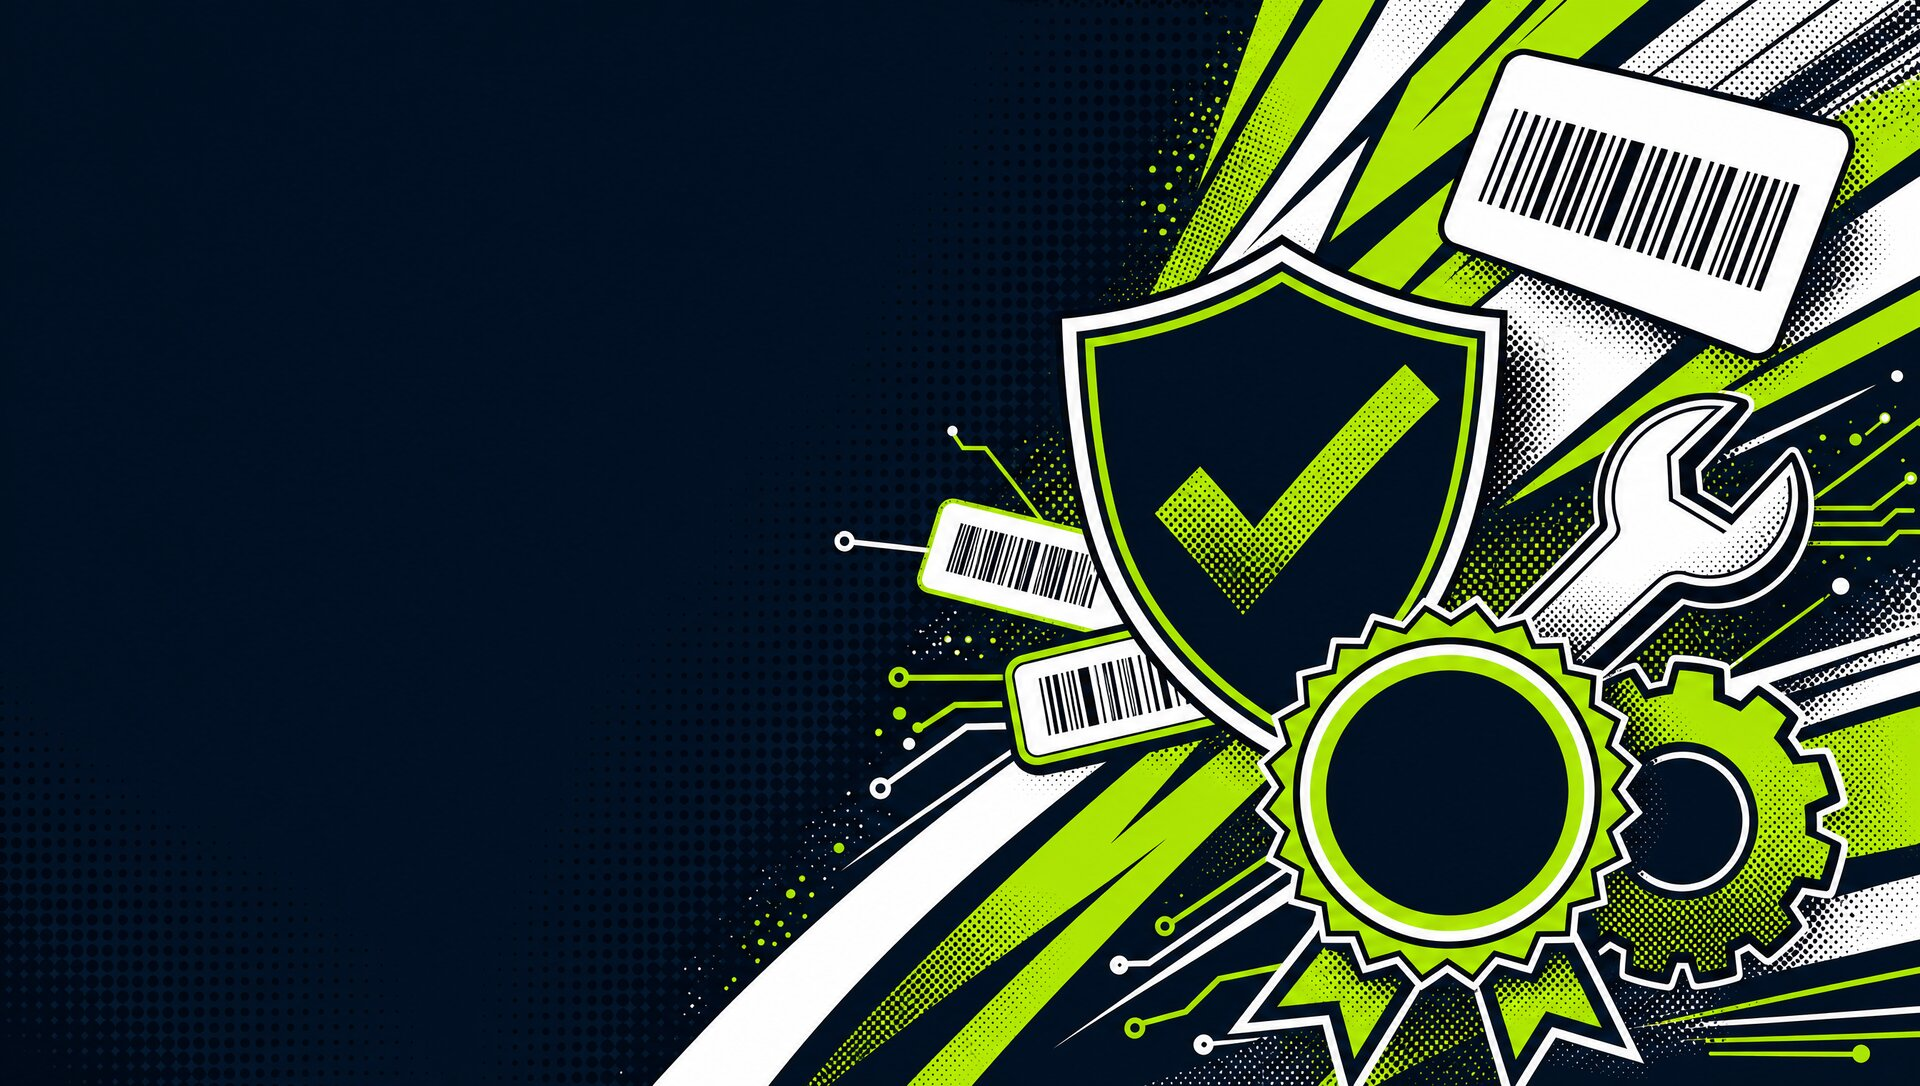
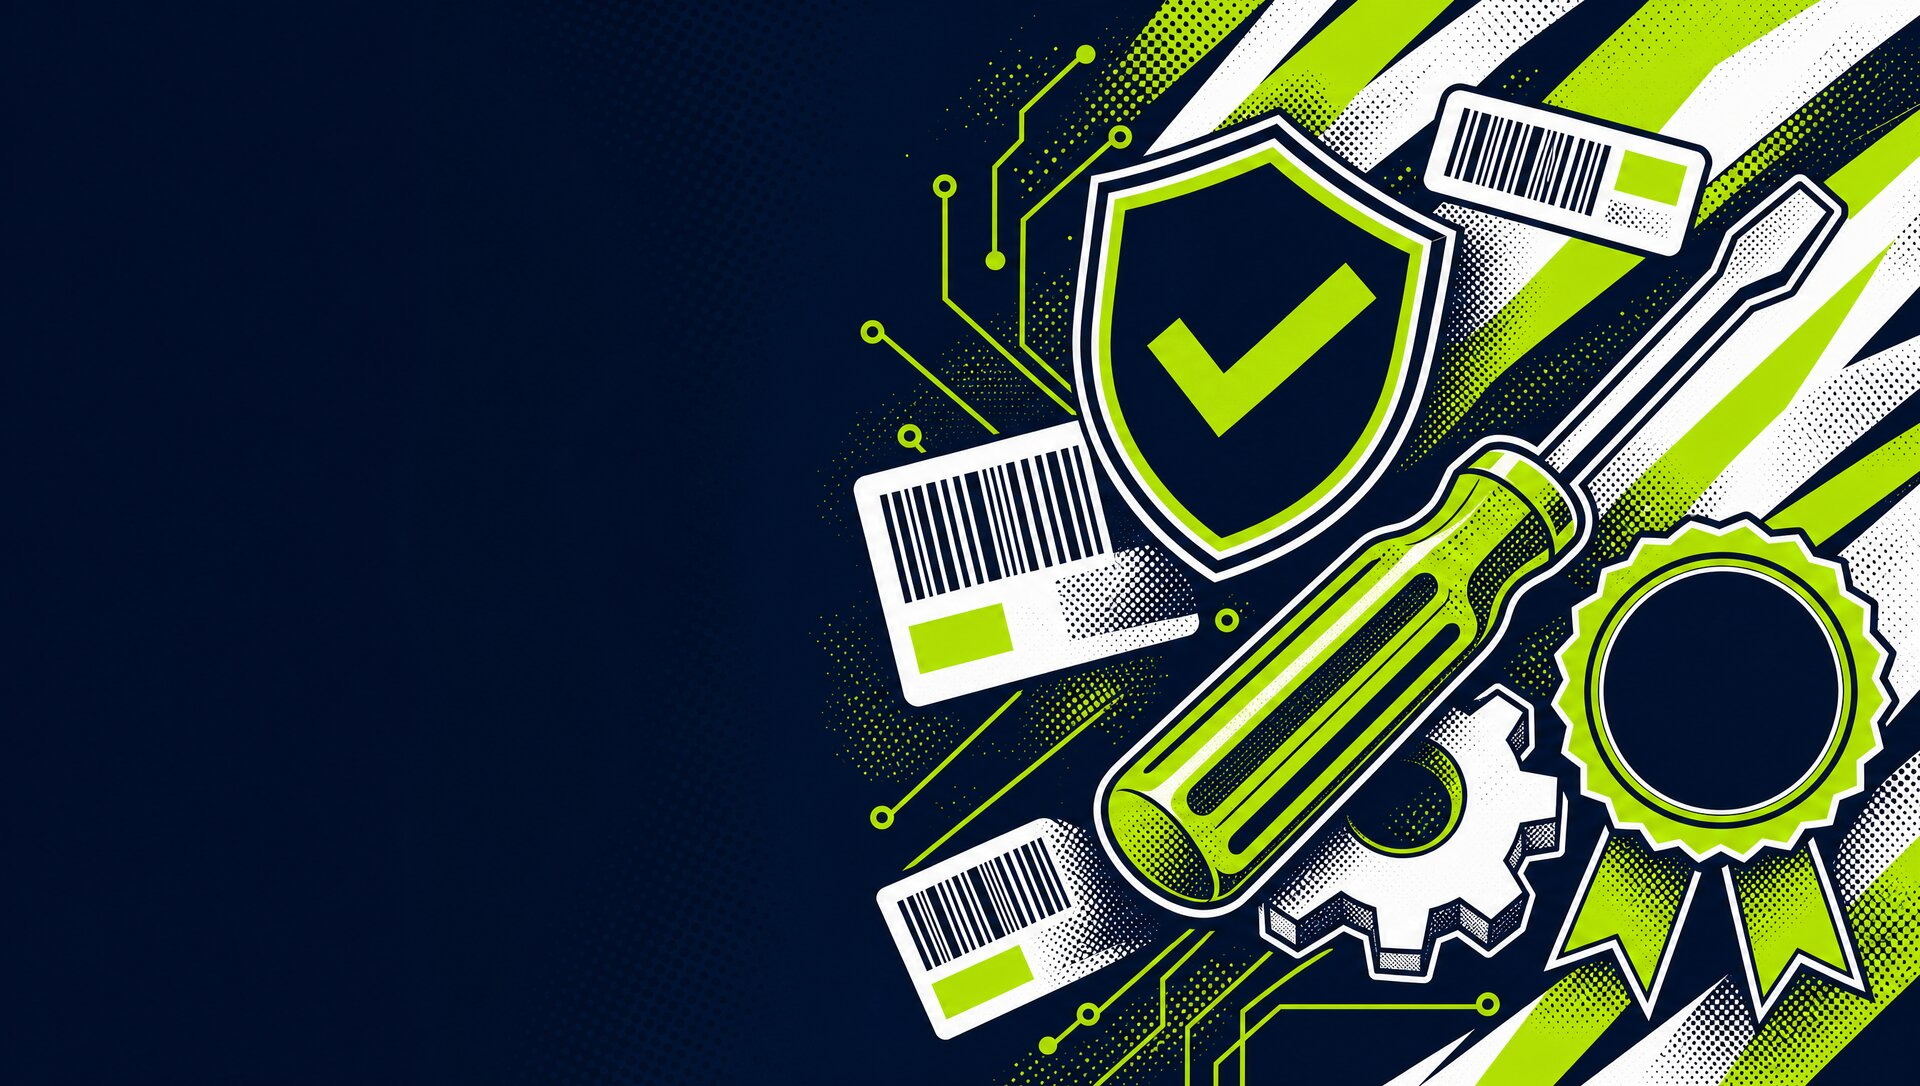
/o-nas: hero o polowe nizszy, srubokret zamiast klucza w grafice
Pas 420 px na desktopie (bylo ~800): lg:py-14, h1 do text-4xl. Nowa
wersja abstrakcji z plaskim srubokretem, bez klucza; tlo pasa #010E29
jak tlo grafiki.

Claude-Session: https://claude.ai/code/session_013b5Uhw5u8FRyzH6CrFQ2kA

diff --git a/app/o-nas/page.tsx b/app/o-nas/page.tsx
@@ -110,7 +110,7 @@ export default function AboutPage() {
       {/* Hero — abstrakcyjna grafika „autoryzowany serwis Zebra" (tarcza, odznaka,
           klucz, kody kreskowe, zebrowe pasy w limonce; bez urządzeń, ludzi i logo),
           na całą szerokość pasa; tekst na ciemnej lewej połowie */}
-      <section className="relative overflow-hidden bg-[#011022] text-white">
+      <section className="relative overflow-hidden bg-[#010E29] text-white">
         {/* Desktop: ilustracja pod całym pasem, przyciemniona po lewej pod tekst */}
         <div className="absolute inset-0 hidden lg:block" aria-hidden="true">
           <Image
@@ -123,10 +123,10 @@ export default function AboutPage() {
           />
           {/* Ilustracja mieści się w wysokości pasa (nic nie jest ucięte); po lewej
               zostaje tło pasa, a gradient zlewa je z ciemną ścianą na obrazie */}
-          <div className="absolute inset-0 bg-gradient-to-r from-[#011022] via-[#011022]/60 to-transparent" />
+          <div className="absolute inset-0 bg-gradient-to-r from-[#010E29] via-[#010E29]/60 to-transparent" />
         </div>
 
-        <div className="relative mx-auto max-w-6xl px-4 py-12 sm:px-6 sm:py-16 lg:py-32">
+        <div className="relative mx-auto max-w-6xl px-4 py-10 sm:px-6 sm:py-12 lg:py-14">
           <div className="max-w-2xl">
             <nav className="mb-4 text-xs text-gray-400" aria-label="Okruszki">
               <Link href="/" className="hover:text-white">
@@ -136,15 +136,15 @@ export default function AboutPage() {
               <span className="text-gray-300">O nas</span>
             </nav>
 
-            <h1 className="text-3xl font-bold leading-tight sm:text-4xl md:text-5xl">
+            <h1 className="text-3xl font-bold leading-tight sm:text-4xl">
               Naprawiamy Zebrę, odkąd nazywała się jeszcze Psion
             </h1>
-            <p className="mt-5 max-w-xl text-base leading-relaxed text-gray-300 sm:text-lg">
+            <p className="mt-4 max-w-xl text-base leading-relaxed text-gray-300">
               Zaczynaliśmy w 1999 roku od terminali Psion. Przez zmiany Psion → Symbol → Motorola → Zebra
               nie zmieniło się jedno: ten sam zespół, ten sam warsztat i ta sama wiedza o urządzeniach,
               na których pracuje Twoja firma.
             </p>
-            <div className="mt-7 flex flex-col gap-3 sm:flex-row">
+            <div className="mt-6 flex flex-col gap-3 sm:flex-row">
               <Link
                 href="/#formularz"
                 className="inline-flex min-h-[48px] items-center justify-center rounded-lg bg-[#A8F000] px-6 font-semibold text-gray-900 transition hover:bg-[#96D800]"

diff --git a/PROGRESS.md b/PROGRESS.md
@@ -1275,6 +1275,7 @@ Fraza „biurkowe drukarki etykiet Zebra" jest głównym wejściem do tej katego
 - Paleta ujednolicona z resztą (`gray-*` zamiast `slate-*`, `rounded-xl`, przyciski limonkowe `min-h-[48px]`). Zrzuty 1440/390 OK, bez poziomego scrolla.
 - Druga runda (uwaga: „indywidualne ikony, w hero grafika komiksowo-wektorowa"): hero w siatce `lg:grid-cols-[1.1fr_1fr]` z ilustracją `public/o-nas/hero-warsztat.jpg` (gpt_image_2 16:9 2k, refy: styl `klasy/biurkowe.jpg` + `zd421t_1.webp`; prompt z „dark blue-grey background", żeby wtopiła się w pas bez ramki). Korzyści autoryzacji: własne ikony `korzysc-{czesci,gwarancja,certyfikat,wsparcie}.png` (karton z kołem zębatym, tarcza z ptaszkiem, odznaka z gwiazdą, słuchawka z błyskawicą) na białych kółkach 32 px.
 - Trzecia runda („zdjęcie na całe hero, urządzenie 1:1, bez człowieka"): ilustracja `public/o-nas/hero-urzadzenia.jpg` — 4 referencje (styl + `zd421t_1`, `zt411_1`, `zq521_1` spłaszczone na biel), prompt „NO people… devices reproduced EXACTLY 1:1… LEFT HALF empty dark navy wall". Z dwóch wariantów wybrany ten z wiernym, ciemnym ZT411 (drugi rozjaśnił obudowę). Desktop: `Image fill object-right` pod całym pasem + gradient `from-gray-900 via-gray-900/85 to-gray-900/10`; `lg:hidden` blok z tą samą ilustracją pod tekstem na telefonie (na tle tekst lądował na narzędziach, a urządzenia wypadały z kadru). `hero-warsztat.jpg` (z technikiem) usunięty.
+- Czwarta runda: „usuń urządzenia, daj artefakty/abstrakcję mówiącą: autoryzowany serwis Zebry" → `public/o-nas/hero-abstrakcja.jpg` (gpt_image_2 16:9 2k, tylko referencja stylu): tarcza z ptaszkiem, odznaka ze wstążką, klucz, koło zębate, etykiety z kodami, zebrowe pasy w limonce; lewe 45% puste pod tekst. Bez urządzeń, ludzi, tekstu i logo Zebry (znak towarowy). Tło pasa `bg-[#011022]` = kolor tła grafiki (zmierzony `magick … -format "#%[hex:…]"`), gradient `from-[#011022] via-[#011022]/60`. Na telefonie `object-cover object-right`. `hero-urzadzenia.jpg` usunięty.
 - „Zmniejsz, ucięte góra i dół": przy pasie 16:9 → ~3:1 `object-cover` obcinał ilustrację. Teraz `object-contain object-right` (obraz = wysokość pasa, w całości), `lg:py-32`, tło sekcji `#0f172a` + gradient `from-gray-900 via-gray-900/80 to-transparent` maskuje szew z tłem ilustracji (~#020a16). Sprawdzone na 1920 i 1440.
 
 ## 2026-09-06 — opinie z Google na stronie głównej (przed stopką)
